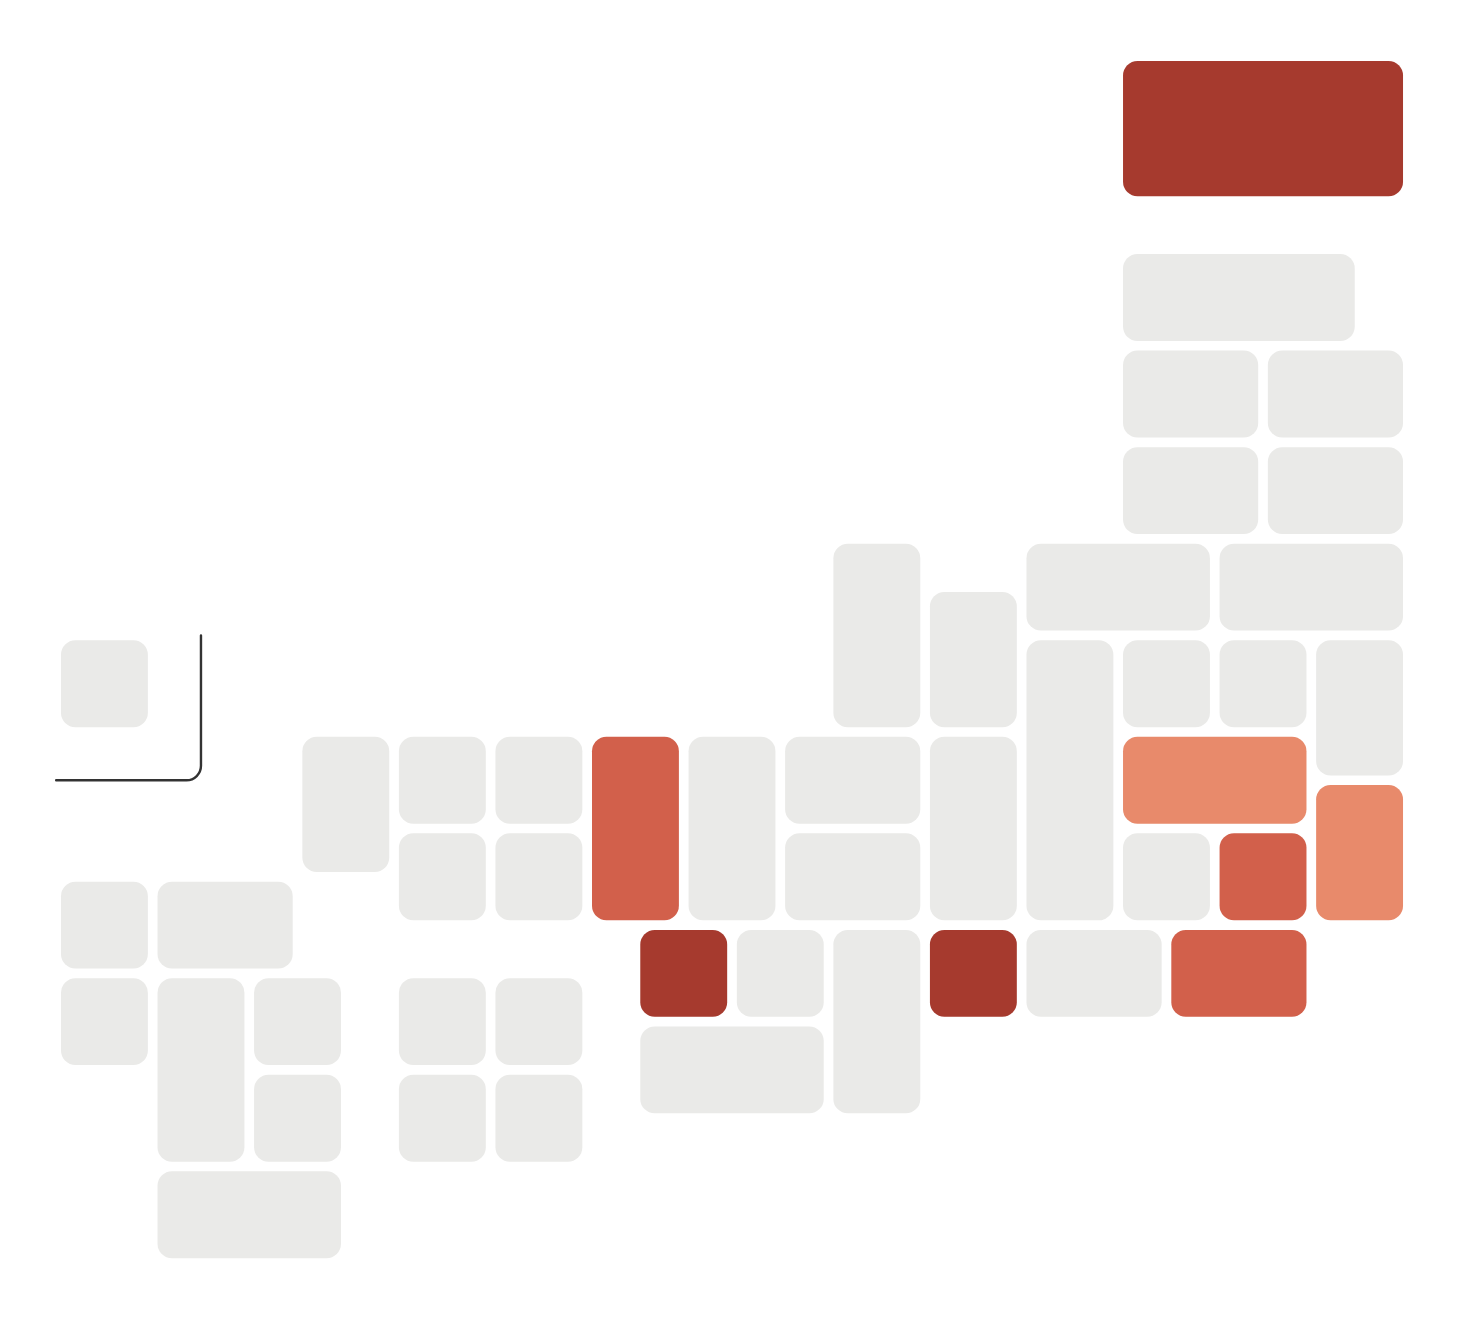
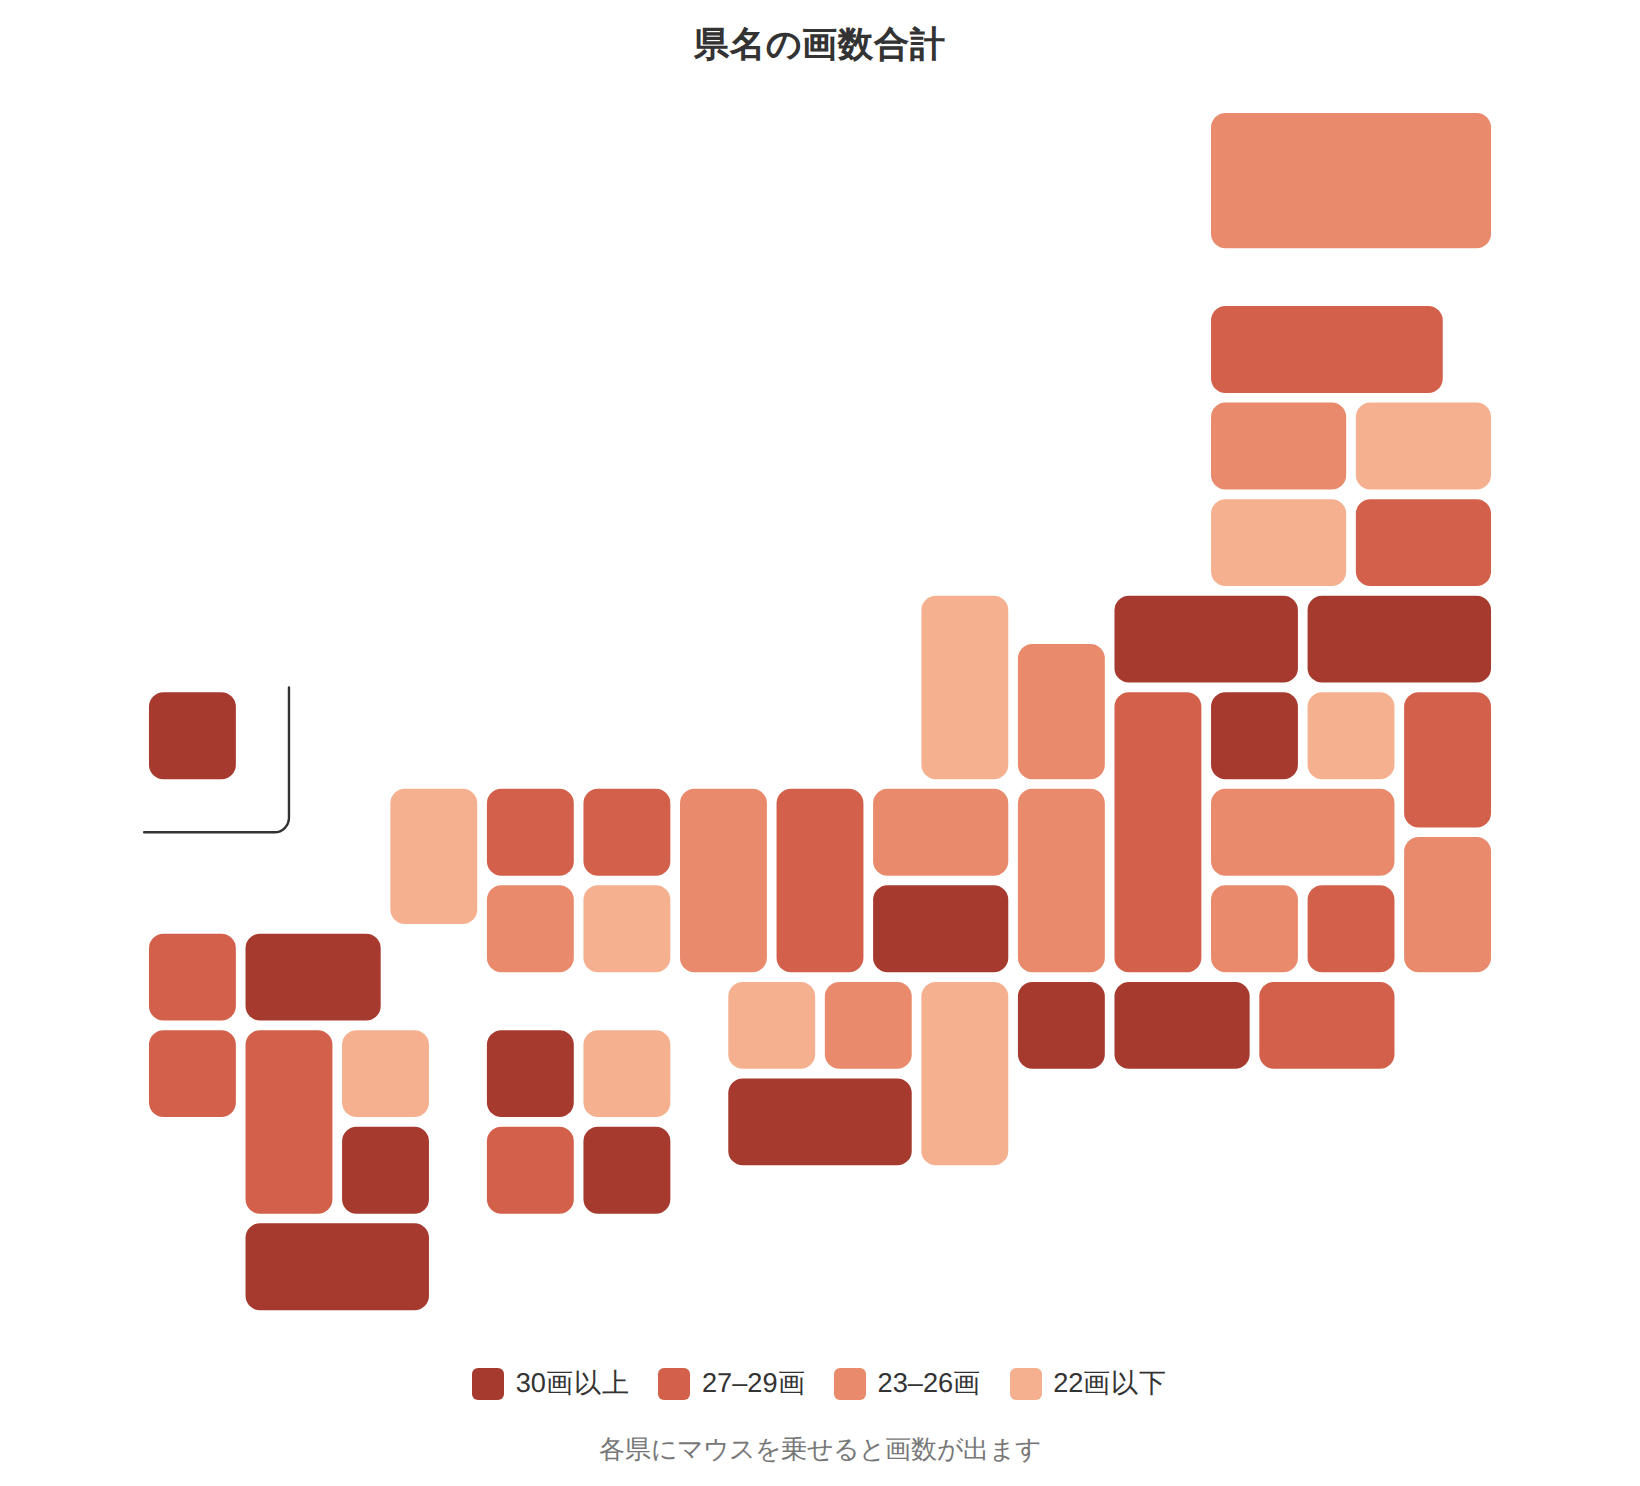
Use kanji stroke counts as the choropleth example data, add title and legend

diff --git a/examples/svg-choropleth.html b/examples/svg-choropleth.html
@@ -4,39 +4,74 @@
   リポジトリのルートで:  python3 -m http.server
   → http://localhost:8000/examples/svg-choropleth.html
 -->
+<!--
+  「値の算出は data/japan.grid.json、地図の描画は dist/*.svg」という
+  このリポジトリの想定どおりの組み合わせのサンプルです。
+  題材は県名の画数合計。地図の塗り分け方を示すための無害な例で、
+  何かの優劣を表すものではありません。
+-->
 <html lang="ja">
 <head>
 <meta charset="utf-8">
-<title>dist/japan-rounded.svg を読み込んで塗り分ける例</title>
+<title>県名の画数合計を塗り分ける例</title>
 <style>
-  body { font-family: sans-serif; background: #fff; }
-  #wrap { width: min(90vmin, 700px); margin: 2rem auto; }
+  body { font-family: sans-serif; background: #fff; color: #333; }
+  #title { text-align: center; margin: 2rem 0 0; font-size: 1.1rem; }
+  #wrap { width: min(90vmin, 700px); margin: .5rem auto; }
   #wrap svg { width: 100%; height: auto; }
   #wrap path { transition: fill .15s; }
+  #legend { display: flex; flex-wrap: wrap; gap: .9rem; justify-content: center;
+            margin: 0 auto 1rem; font-size: .85rem; }
+  #legend span { display: flex; align-items: center; gap: .35rem; }
+  #legend i { width: 1rem; height: 1rem; border-radius: 3px; }
+  #note { text-align: center; font-size: .8rem; color: #777; }
 </style>
 </head>
 <body>
+<h1 id="title">県名の画数合計</h1>
 <div id="wrap"></div>
+<div id="legend"></div>
+<p id="note">各県にマウスを乗せると画数が出ます</p>
 <script>
-// 塗り分けたい値（例）。JP-コードをキーにする
-const values = { "JP-01": 152, "JP-13": 90, "JP-23": 123, "JP-27": 108,
-                 "JP-28": 82, "JP-14": 55, "JP-12": 31, "JP-11": 29 };
+// 県名に使われる漢字の画数
+const STROKES = {
+  "北":5,  "海":9,  "道":12, "青":8,  "森":12, "県":9,  "岩":8,  "手":4,  "宮":10, "城":9,
+  "秋":9,  "田":5,  "山":3,  "形":7,  "福":13, "島":10, "茨":9,  "栃":9,  "木":4,  "群":13,
+  "馬":10, "埼":11, "玉":5,  "千":3,  "葉":12, "東":8,  "京":8,  "都":11, "神":9,  "奈":8,
+  "川":3,  "新":13, "潟":15, "富":12, "石":5,  "井":4,  "梨":11, "長":8,  "野":11, "岐":7,
+  "阜":8,  "静":14, "岡":8,  "愛":13, "知":8,  "三":3,  "重":9,  "滋":12, "賀":12, "府":8,
+  "大":3,  "阪":7,  "兵":7,  "庫":10, "良":7,  "和":8,  "歌":14, "鳥":11, "取":8,  "根":10,
+  "広":5,  "口":3,  "徳":14, "香":9,  "媛":12, "高":10, "佐":7,  "崎":11, "熊":14, "本":5,
+  "分":4,  "鹿":11, "児":7,  "沖":7,  "縄":15,
+};
 
-// 単一色相の明→暗ランプ。データなしは無彩色にして、値の一部に見えないようにする
-const color = v =>
-  v === undefined ? "#EAEAE8" :   // データなし
-  v >= 100 ? "#A63A2E" :
-  v >= 50  ? "#D2604B" :
-  v >= 10  ? "#E88A6B" : "#F5B090";
+// 区分の定義。塗りと凡例を同じ定義から作る。
+// 境界値は四分位（各区分の県数がほぼ揃う位置）で決めた。
+// 実データは最大値までを等分割すると大半が最小区分に寄るので、この決め方が無難。
+const CLASSES = [
+  { min: 30, color: "#A63A2E", label: "30画以上" },
+  { min: 27, color: "#D2604B", label: "27–29画" },
+  { min: 23, color: "#E88A6B", label: "23–26画" },
+  { min:  0, color: "#F5B090", label: "22画以下" },
+];
+const color = v => CLASSES.find(c => v >= c.min).color;
 
-fetch("../dist/japan-rounded.svg")
-  .then(r => r.text())
-  .then(text => {
-    document.getElementById("wrap").innerHTML = text;
-    document.querySelectorAll("#wrap path[id^='JP-']").forEach(p => {
-      p.setAttribute("fill", color(values[p.id]));
-    });
-  });
+Promise.all([
+  fetch("../data/japan.grid.json").then(r => r.json()),
+  fetch("../dist/japan-rounded.svg").then(r => r.text()),
+]).then(([grid, svg]) => {
+  document.getElementById("wrap").innerHTML = svg;
+
+  for (const pref of Object.values(grid.legend)) {
+    const strokes = [...pref.name].reduce((n, ch) => n + STROKES[ch], 0);
+    const path = document.getElementById("JP-" + pref.code);
+    path.setAttribute("fill", color(strokes));
+    path.querySelector("title").textContent = `${pref.name} ${strokes}画`;
+  }
+
+  document.getElementById("legend").innerHTML = CLASSES
+    .map(c => `<span><i style="background:${c.color}"></i>${c.label}</span>`).join("");
+});
 </script>
 </body>
 </html>

diff --git a/examples/README.md b/examples/README.md
@@ -20,6 +20,8 @@ python3 -m http.server
 
 ## svg-choropleth.html
 
-`dist/japan-rounded.svg` を読み込んでページに展開し、都道府県ごとに値に応じた色を塗ります（コロプレス図）。`id="JP-13"` のような識別子を使って塗り分けます。
+`data/japan.grid.json` から値を作り、`dist/japan-rounded.svg` を展開して `id="JP-13"` のような識別子で塗り分けます（コロプレス図）。「値の算出はJSON、描画はSVG」という想定どおりの組み合わせの例です。
+
+題材は県名の画数合計です。塗り分けの手順を示すための無害な題材で、何かの優劣を表すものではありません。
 
 ![svg-choropleth.html の実行画面](svg-choropleth.png)
